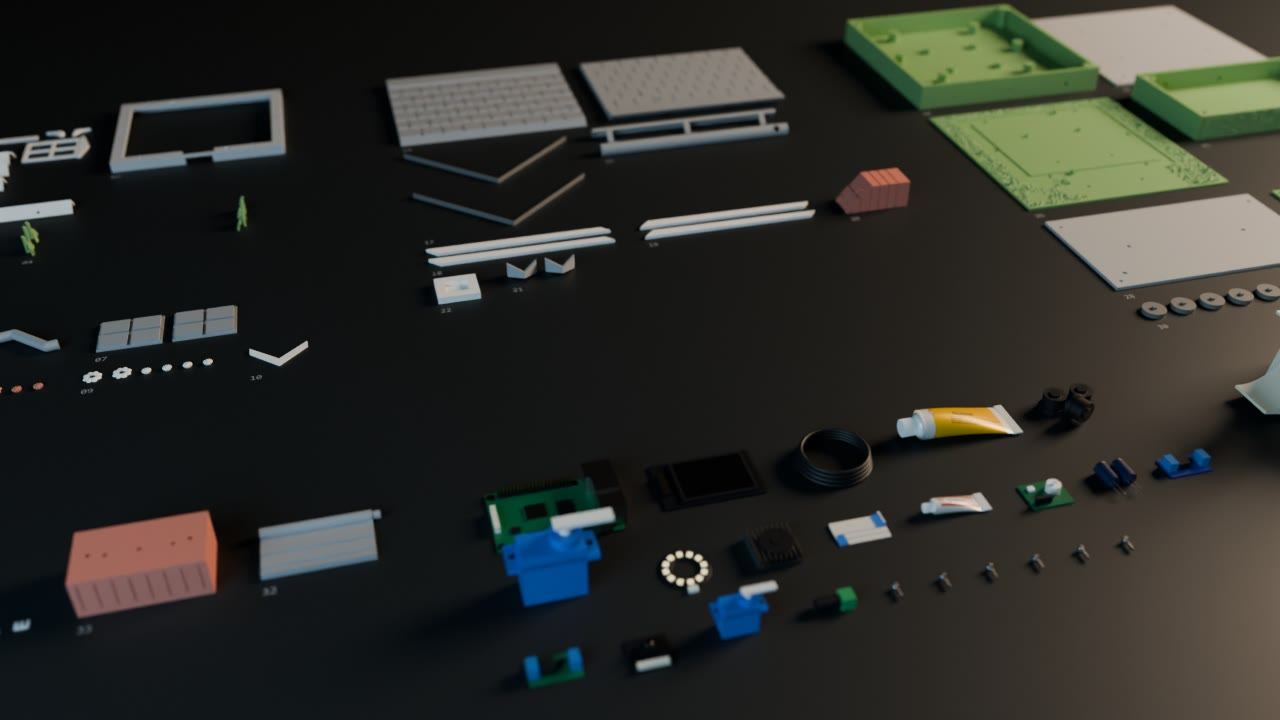
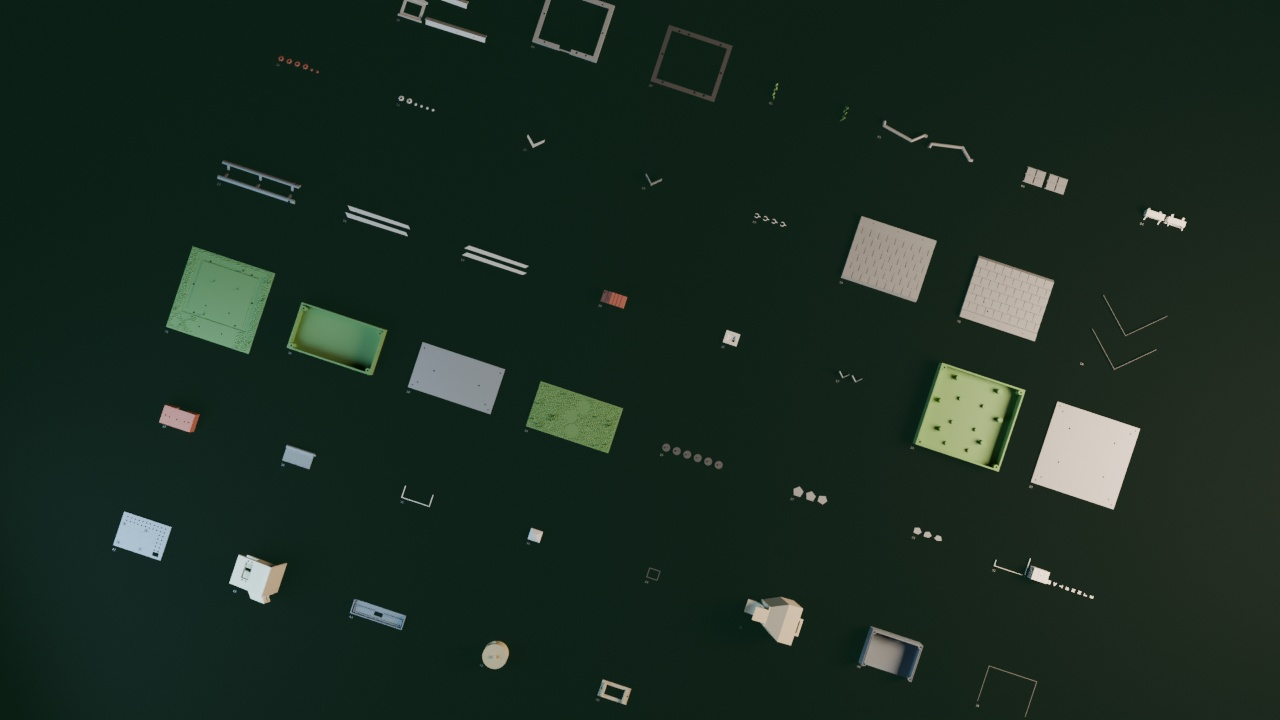
Film: variant D av 0.4 i filmen (golvet är en LED-skärm)
Delarna ligger i ett rutnät på ett golv med skärmens pixlar, och kameran
dyker in i pixlarna inför 0.5. Storyboard v23, arbetskopian och lägesbeskrivningen
är uppdaterade.

diff --git a/trailer/storyboard/storyboard.html b/trailer/storyboard/storyboard.html
@@ -134,7 +134,7 @@ td:first-child { color: var(--fg); white-space: nowrap; font-family: var(--mono)
 <div class="wrap">
 
 <header class="top">
-  <div class="eyebrow">Storyboard v22 · längre titel och rättelser</div>
+  <div class="eyebrow">Storyboard v23 · golvet är en skärm</div>
   <h1>Projekt <span>Lennart</span></h1>
   <p class="lead">En helt orimlig mängd teknik, redovisad med fullt allvar, för att en ekorre ska få äta sin nöt i fred.</p>
   <div class="facts">
@@ -386,8 +386,8 @@ const ACTS = [
  ['Kallöppning', '0:00–0:20', 'Ny version, v4: huset avslöjas inte. Din egen introröst. Tajmas om efter din slutliga inspelning.', [
   ['0.1','0:00','5 s','Skärmen','o1','cg','Börja lugnt och seriöst. Väcka en fråga innan något har förklarats.','En liten skärm i en vit ram på röd träpanel: VÄNTAR PÅ BESÖKARE…','85 mm. Börjar snett från sidan, lätt lutad, och sveper i en båge runt fasaden medan den rätar upp sig.','Varmt släpljus från höger, svag kall fyllning.','Kameran rör sig, skärmen står still.','Samma båge fortsätter uppåt längs fasaden tills gluggen ligger där skärmen låg.','"Okej, så det här är ett helt vanligt autonomt säkerhetssystem,"','Svagt elektriskt brum. Dämpat fågelkvitter.','3D från GLB + skarm-vantar.png'],
   ['0.2','0:05','2,6 s','Gluggen och linsen','o2','cg','Systemets öga.','Den runda gluggen i gaveln, med kameramodulen där inne.','Kameran åker rakt in mot linsen tills det mörka glaset fyller bilden.','En liten kall reflex i glaset.','Inåkning som accelererar.','Klipp i mörkret till mekaniken.','"med artspecifik åtkomstkontroll,"','Ett lågt klick, som en slutare.','3D från GLB'],
-  ['0.3','0:08','2,6 s','Nötens väg','o3','cg','Visa mekaniken som ett urverk, utan att visa huset.','Mekaniken i full färg: magasinet med nötter, hjulet, rännan, luckan och skålen. Resten av huset är mörkt glas där bara kanterna skymtar. Luckan fälls upp, hjulet vrider fram en hasselnöt och den rullar ner i skålen.','Snabb inåkning som bromsar, sedan en tilt ner efter nöten.','Varm nyckel på mekaniken. Glaset lyser svagt blågrönt i kanterna.','Luckan öppnas först, sedan vrids hjulet 130° och nöten rullar.','Kameran tiltar snabbt nerat förbi skålen. Rörelsen fortsätter över klippet: 0.4 börjar inne i husets stomme och tiltar vidare nedåt.','"motoriserad precisionsdosering"','Servosurr. Nöten som rullar och landar.','3D från GLB. Ny version, v4.'],
-  ['0.4','0:10','4,3 s','Fyrtioåtta delar','o4','cg','Storleken på vansinnet, utan att avslöja formen.','Alla fyrtioåtta delar ligger platt på ett mörkt golv, i räta rader och sorterade i grupper som en byggsats, numrerade 01–48. Elektroniken från inköpen ligger i en egen grupp. Husets stomme ligger på rygg som ett tomt rör. Man ser mängden men kan inte pussla ihop huset.','Börjar inne i stommen och åker ut genom dess öppning, stiger och sveper snett ovanifrån över raderna från vänster till höger.','Varmt sidoljus, kall fyllning, mörk bakgrund.','En enda jämn åkning. Delarna ligger still.','Kameran lyfter, hittar skärmramen på golvet och åker rakt ner genom dess öppning. 0.5 börjar tätt mot den släckta skärmen, som tänds medan kameran backar ut.','"och fyrtioåtta väldigt noggrant tillverkade komponenter. Inget konstigt."','En låg ton växer.','3D från GLB + delar.json. Elektroniken är samma generiska modeller som i del 4. Ny version, v6.'],
+  ['0.3','0:08','2,6 s','Nötens väg','o3','cg','Visa mekaniken som ett urverk, utan att visa huset.','Mekaniken i full färg: magasinet med nötter, hjulet, rännan, luckan och skålen. Resten av huset är mörkt glas där bara kanterna skymtar. Luckan fälls upp, hjulet vrider fram en hasselnöt och den rullar ner i skålen.','Snabb inåkning som bromsar, sedan en tilt ner efter nöten.','Varm nyckel på mekaniken. Glaset lyser svagt blågrönt i kanterna.','Luckan öppnas först, sedan vrids hjulet 130° och nöten rullar.','Kameran tiltar snabbt nerat förbi skålen. Rörelsen fortsätter över klippet: 0.4 tar vid i samma tilt och landar rakt ovanför golvet.','"motoriserad precisionsdosering"','Servosurr. Nöten som rullar och landar.','3D från GLB. Ny version, v4.'],
+  ['0.4','0:10','4,3 s','Fyrtioåtta delar','o4','cg','Storleken på vansinnet, utan att avslöja formen.','Alla fyrtioåtta delar ligger platt i ett rutnät, åtta gånger sex, en del per ruta. Golvet är en enorm släckt LED-skärm med samma mörkgröna pixlar som skärmen i huset. Husets stomme ligger på rygg som en del bland de andra. Man ser mängden men kan inte pussla ihop huset.','Börjar tätt över golvet ovanifrån, lyfter rakt upp och vrider sig lite tills hela rutnätet syns.','Varmt sidoljus, kall fyllning. Golvets pixlar glöder svagt.','En enda jämn åkning. Delarna ligger still.','Kameran dyker rakt ner mot en tom ruta tills golvets pixlar fyller bilden. De blir pixlarna på skärmen i 0.5, som tänds medan kameran backar ut.','"och fyrtioåtta väldigt noggrant tillverkade komponenter. Inget konstigt."','En låg ton växer.','3D från GLB + delar.json. Ny version, v7 (variant D).'],
   ['0.5','0:15','3 s','Verifierar','o5','cg','Pausen.','Tätt på skärmen i sin vita ram mot röd panel, som i första bilden. Skärmen visar VERIFIERAR…','Långsam inåkning rakt mot skärmen.','Lågt varmt ljus, svag kall fyllning.','Nästan stilla.','Kameran åker in i texten tills skärmens pixlar fyller bilden, och skärmen släcks. Titeln tänds i samma pixelrutnät.','Tystnad, två sekunder.','Tre korta pip. Tvärt tyst.','3D från GLB + skarm-verifierar.png. Ny version, v4.'],
   ['0.6','0:18','2,8 s','Titel','','title','Leverera skämtet och namnet.','Svart. PROJEKT LENNART i skärmens typsnitt, med ett ekollon i pixlar till vänster.','Stilla.','—','Bokstäverna tänds en i taget.','Rakt klipp på musikens slag till balkongen i juli.','"Det vaktar nötter."','Tystnad under repliken.','Grafik'],
  ]],
@@ -432,7 +432,7 @@ const ACTS = [
 ];
 // nr -> kort notering om vilken version filmen är
 const FILM = {
- "0.1": "Ny version, v5: skärmen har synliga pixlar.", "0.2": "Ur öppning v2, godkänd bild. Din provinspelning som röst.", "0.3": "Ny version, v5: magasinet fullt, tilt ner i slutet.", "0.4": "Ny version, v6: byggsats i grupper med elektroniken, börjar inne i stommen.", "0.5": "Ny version, v5: pixlar, punkter på pipen, inåkning i pixlarna.", "0.6": "Ny version: titeln med ekollonet, nu 2,8 s. Musiken börjar 1 s senare så att den ligger kvar mot resten.",
+ "0.1": "Ny version, v5: skärmen har synliga pixlar.", "0.2": "Ur öppning v2, godkänd bild. Din provinspelning som röst.", "0.3": "Ny version, v5: magasinet fullt, tilt ner i slutet.", "0.4": "Ny version, v7 (variant D): rutnät på ett golv som är en LED-skärm, dyker in i pixlarna.", "0.5": "Ny version, v5: pixlar, punkter på pipen, inåkning i pixlarna.", "0.6": "Ny version: titeln med ekollonet, nu 2,8 s. Musiken börjar 1 s senare så att den ligger kvar mot resten.",
  "1.1": "Ur del 1 v1, klippt efter din inspelning.", "1.2": "Ur del 1 v1, klippt efter din inspelning.", "1.3": "Ur del 1 v3. Namnskylten kommer tidigare och ligger kvar in i nästa klipp.", "1.4": "Ur del 1. Ny övergång i slutet: Lennart tappar nöten och kameran följer den ner.",
  "2.1": "Ny version, v8: nöten från 1.4 faller ner och landar på fatet.", "2.2": "Ur v3, oförändrad.", "2.3": "Ur v3, oförändrad.", "2.4": "Ur v3, oförändrad.", "2.5": "Ny version, v5: nej-signalen slår ner i fatet, som snurrar ut med ett porslinsklirr.", "2.6": "Ny version, v6: nötterna vilar, kameran lyfter i slutet.",
  "6.1": "Ny version, v2: byggklippen i hörnen, i takt med musiken (platshållare).", "6.2": "Ny version, v2: byggklippen går när kameran åker nära (platshållare).", "6.3": "Första renderingen, v1. Rösten klipps inte längre i slutet av \"honom\".", "3.1": "Ny version, v6: ett litet munstycke under fönstret projicerar ritningen, med mjuk rörelse.", "3.2": "Ny version, v4: snabb panorering i slutet.",

diff --git a/trailer/film/oppning.py b/trailer/film/oppning.py
@@ -251,7 +251,7 @@ POS['kropp'] = Vector((LAYOUT_X0 - 0.07 - KL, FRAMRAD_Y - KD / 2, 0)); BLOCK['kr
 # Varianter av 0.4 (LENNART_04, prov for Marcus): K = byggsatsen i grupper (nuvarande), A = en lang rak linje som slutar genom stommen och ner i ramen,
 # B = byggsatsen, slutar pa LED-skarmen pa golvet som tands, C = ovanifran: lyfter over byggsatsen och dyker ner i ramen,
 # D = delarna i ett rutnat pa ett golv som ar en enorm slackt LED-skarm; kameran dyker in i golvets pixlar, E = en gron skanning sveper over delarna.
-VAR04 = os.environ.get('LENNART_04', 'K')
+VAR04 = os.environ.get('LENNART_04', 'D')
 def _vrid(n):   # vrider ett block 90 grader i sina egna koordinater, sa att kortsidan hamnar langs x
     W_, D_ = BLOCK[n]
     for v in _BM[n].verts: x, y = v.co.x, v.co.y; v.co.x = D_ - y; v.co.y = x

diff --git a/trailer/film/LAGE.md b/trailer/film/LAGE.md
@@ -17,7 +17,7 @@ Senast uppdaterad 2026-11-16. Skriven för att arbetet ska kunna fortsätta på 
 
 | Del | Innehåll | Läge |
 |---|---|---|
-| 0 Öppningen | Skärmen, gluggen, nötens väg, 48 delar, VERIFIERAR, titeln | Klar. Fullt nötmagasin, pixlar på skärmen, punkterna tänds på pipen. 0.4 är en byggsats i grupper med elektroniken och börjar inne i husets stomme. |
+| 0 Öppningen | Skärmen, gluggen, nötens väg, 48 delar, VERIFIERAR, titeln | Klar. Fullt nötmagasin, pixlar på skärmen, punkterna tänds på pipen. 0.4 är variant D: de 48 delarna i ett rutnät på ett golv som är en släckt LED-skärm. |
 | 1 Lennart | Riktiga mobilklipp | Klar. Klipp 1.4 slutar med en snabb panorering åt höger. |
 | 2 Problemet och planen | Fat, skata, kamera i sladd, moln, ja och nej | Klar. Landar ur panoreringen från 1.4, fatet snurrar vid nej, nötterna vilar på riktigt. |
 | 3 Designen | Claude-fönstret ritar huset, huset reser sig | Klar. Ett litet munstycke fälls ut under fönstret och projicerar ritningen. |
@@ -30,8 +30,8 @@ Senast uppdaterad 2026-11-16. Skriven för att arbetet ska kunna fortsätta på 
 
 | Skarv | Hur |
 |---|---|
-| 0.3 → 0.4 | Snabb tilt nerför skålen, 0.4 börjar inne i husets stomme och tiltar vidare nedåt innan kameran åker ut genom öppningen |
-| 0.4 → 0.5 | Genom ramen: kameran åker ner genom skärmramens öppning på golvet, 0.5 backar ut ur den släckta skärmen som tänds |
+| 0.3 → 0.4 | Snabb tilt nerför skålen, 0.4 tar vid i samma tilt och landar rakt ovanför golvet |
+| 0.4 → 0.5 | In i pixlarna: kameran dyker rakt ner mot en tom ruta tills golvets pixlar fyller bilden, och 0.5 backar ut ur skärmens pixlar medan den tänds |
 | 0.5 → 0.6 | In i skärmens pixlar, titeln tänds i samma rutnät (`verktyg/titel.py`). En hasselnöt i pixlar står till vänster om texten och tänds strax före den. |
 | 1.4 → 2.1 | Lennart tappar nöten. Kameran tiltar ner efter den, bilden glider ut i skuggan och klippet sker mitt i fallet. I 2.1 landar samma nöt bland de andra på fatet (`verktyg/fall_14.py`, `akt_plan.py`) |
 | 2.6 → 3.1 | Kameran tittar upp förbi molnet, 3.1 kommer uppifrån ner mot fönstret |
@@ -68,6 +68,6 @@ Scener som väntar på riktigt material står i listan `VANTAR` i `storyboard/st
 - **Byggklippen i monteringen:** `verktyg/byggklipp_6.py` lägger fyra klipp i vita ramar bakom huset i 6.1–6.2. De poppar upp och krymper bort på musikens slag (ca 99 slag/min) och är borta när kameran åker nära, ca 9 s in. Klippen görs lite mjuka, mörkare, kallare och mindre mättade (`KLIPP_VF`), så att huset är skarpast i bilden. Huset hålls överst med en mask som `akt_montering.py` renderar i maskläge (`LENNART_MASK=1`, bara alfa, går snabbt). Klippen läses från en mapp med `1.mp4`–`4.mp4`, utan ljud. När de riktiga klippen finns räcker det att köra skriptet igen, utan att rendera om huset. Platshållarna ligger lokalt i `byggklipp/platshallare/` och committas inte.
 - **Munstycket i designen:** `akt_design.py` låter ett litet munstycke växa fram ur chattfönstrets underkant 5,3–5,9 s. Det är varmgrått som fönstret med en tunn ring i Claudes orange. Det vrider sig mjukt mot pappret, följer linjen som sveper över det (ljuset kommer ur spetsen), vrids tillbaka och krymper bort 9,45–9,95 s. Alla rörelser börjar och slutar mjukt (`sms`). Formen väljs med `LENNART_MUNSTYCKE_VARIANT` (A kon, B lins, C skrivarhuvud, D kapsel, D är vald) och `LENNART_MUNSTYCKE=0` stänger av det.
 - **Delarna i 0.4:** `oppning.py` lägger varje lös bit plant i sin tunnaste riktning (den sida av höljet som ger lägst höjd), med långsidan längs x. Delarna sorteras i sex grupper i två rader: stomme, tak och bas bak, skål, elektronik och inredning fram. Skärmramen, som kameran åker ner genom, ligger i inredningen längst till höger. Husets stomme ligger på rygg som ett rör till vänster, och 0.4 börjar inne i den. Elektroniken är samma generiska modeller som i inköpen och läses från `elektronik.blend`, som görs med `blender -b -P verktyg/elektronik_export.py`. Ändras modellerna i `akt_inkop.py` ska exporten köras om. Numren 01–48 bredvid husets delar stängs av med `LENNART_NUMMER=0`.
-- **Varianter av 0.4 (prov 17/11):** `LENNART_04` i `oppning.py` väljer K (byggsatsen, i filmen), A (en lång linje som slutar genom stommen och ner i ramen), B (byggsatsen, slutar på LED-skärmen som tänds), C (ovanifrån), D (golvet är en släckt LED-skärm, kameran dyker in i pixlarna) eller E (en grön skanning). Bara K används i filmen tills Marcus valt.
+- **Varianter av 0.4 (prov 17/11):** `LENNART_04` i `oppning.py` väljer K (byggsatsen, i filmen), A (en lång linje som slutar genom stommen och ner i ramen), B (byggsatsen, slutar på LED-skärmen som tänds), C (ovanifrån), D (golvet är en släckt LED-skärm, kameran dyker in i pixlarna) eller E (en grön skanning). Marcus valde D (17/11), som nu är förvalt och ligger i filmen. Byggsatsen i grupper (K) och elektroniken används bara av varianterna K, B och E; D visar husets 48 delar utan elektroniken.
 - **Nötterna:** platserna räknas fram mot modellens riktiga form (`verktyg/notmagasin.py`, `verktyg/notfat.py`).
 - **Bildrutor:** när bara en del av en scen ändras renderas bara de bildrutorna om. Bildrutorna finns inte i repot, så ta fram de övriga ur scenens mp4 med `ffmpeg -i "Lennart - del 3 designen v6.mp4" ut/%04d.jpg` först.

diff --git a/TOKENS.md b/TOKENS.md
@@ -19,7 +19,7 @@ Metoden anger hur siffran togs fram: *exakt* (avläst i verktyget) eller *uppska
 | 2026-11-15 (kväll, livebild) | Publik livebild på lennart.cam (bilder bara när någon tittar), adminvy bakom inloggning med inställningar och av-knapp, Pi-appen skickar 640 × 360 i 2 bilder/s. Testat lokalt och mot riktiga lennart.cam. | ca 5–10 miljoner in, ca 0,08 miljoner ut [osäkert] | Uppskattat: ca 40 modellanrop × 130 000–240 000 tokens kontext. Ut uppskattat ur mängden skriven kod och text. | 0 | Ingen lokal modell användes |
 | 2026-11-15 (kväll, admin) | Felsökning av inloggningen i adminvyn: tolerans för mellanslag och citattecken, fingeravtryck i loggen, test i riktig webbläsare, besökarens adress bakom Cloudflare | ca 3–6 miljoner in, ca 0,03 miljoner ut [osäkert] | Uppskattat: ca 20 modellanrop × 150 000–260 000 tokens kontext | 0 | Ingen lokal modell användes |
 | 2026-11-15 (kväll, rotation och servon) | Kamerans rotation och servostyrning i adminvyn: kommandon och inställningar via Pi:ns väntande anrop, egen drivrutin för PCA9685, kopplingsguide för servona, rättning av dolda bilder i stilmallen. Testat med låtsashårdvara och i Chromium. | ca 6–12 miljoner in, ca 0,1 miljoner ut [osäkert] | Uppskattat: ca 40 modellanrop × 160 000–280 000 tokens kontext. Ut uppskattat ur mängden skriven kod och text. | 0 | Ingen lokal modell användes |
-| 2026-11-14 – 2026-11-17 | Trailern, Claude Code i Claude-appen på Windows (lokal session): storyboard, alla 3D-scener i Blender, Marcus röst bearbetad och lagd mot klippen, musik och ljudeffekter, övergångar, flytt av filmprojektet till repot, övergången från Lennart till planen, vattenstämpeln, inköpen, servonas tajming, byggklippen i monteringen, munstycket i designen, delarna som byggsats i öppningen, ekollonet i titeln, nöten som faller från 1.4 till 2.1, rättelser och varianter av 0.4 | ca 369,4 miljoner in, varav 366,1 miljoner cacheläsning och 3,3 miljoner cacheskrivning, och 1,40 miljoner ut | Exakt ur sessionsloggen fram till 2026-11-17 01.04 UTC: summan av `usage`-fälten för 1182 modellanrop (Claude Fable 5.2 och Claude Opus 5.5), räknat en gång per svar. Arbetet efter den tidpunkten ingår inte. | ej räknat | Whisper medium kördes lokalt för att skriva ut rösten (ca 2,5 minuter ljud). Whisper räknar inte tokens på samma sätt, och antalet loggades inte. |
+| 2026-11-14 – 2026-11-17 | Trailern, Claude Code i Claude-appen på Windows (lokal session): storyboard, alla 3D-scener i Blender, Marcus röst bearbetad och lagd mot klippen, musik och ljudeffekter, övergångar, flytt av filmprojektet till repot, övergången från Lennart till planen, vattenstämpeln, inköpen, servonas tajming, byggklippen i monteringen, munstycket i designen, delarna som byggsats i öppningen, ekollonet i titeln, nöten som faller från 1.4 till 2.1, rättelser, varianter av 0.4 och variant D i filmen | ca 381,7 miljoner in, varav 378,3 miljoner cacheläsning och 3,4 miljoner cacheskrivning, och 1,42 miljoner ut | Exakt ur sessionsloggen fram till 2026-11-17 08.30 UTC: summan av `usage`-fälten för 1221 modellanrop (Claude Fable 5.2 och Claude Opus 5.5), räknat en gång per svar. Arbetet efter den tidpunkten ingår inte. | ej räknat | Whisper medium kördes lokalt för att skriva ut rösten (ca 2,5 minuter ljud). Whisper räknar inte tokens på samma sätt, och antalet loggades inte. |
 | 2026-11-15 | Kort Claude Code-session i samma mapp: försök att snygga till en timelapse av utskriften med Higgsfield [verifiera vad som blev gjort] | ca 7,0 miljoner in, varav 6,9 miljoner cacheläsning, och 0,03 miljoner ut | Exakt ur sessionsloggen: summan av `usage`-fälten för 50 modellanrop (Claude Opus 5.5) | 0 | Ingen lokal modell användes |
 
 ## Utanför tokenräkningen
